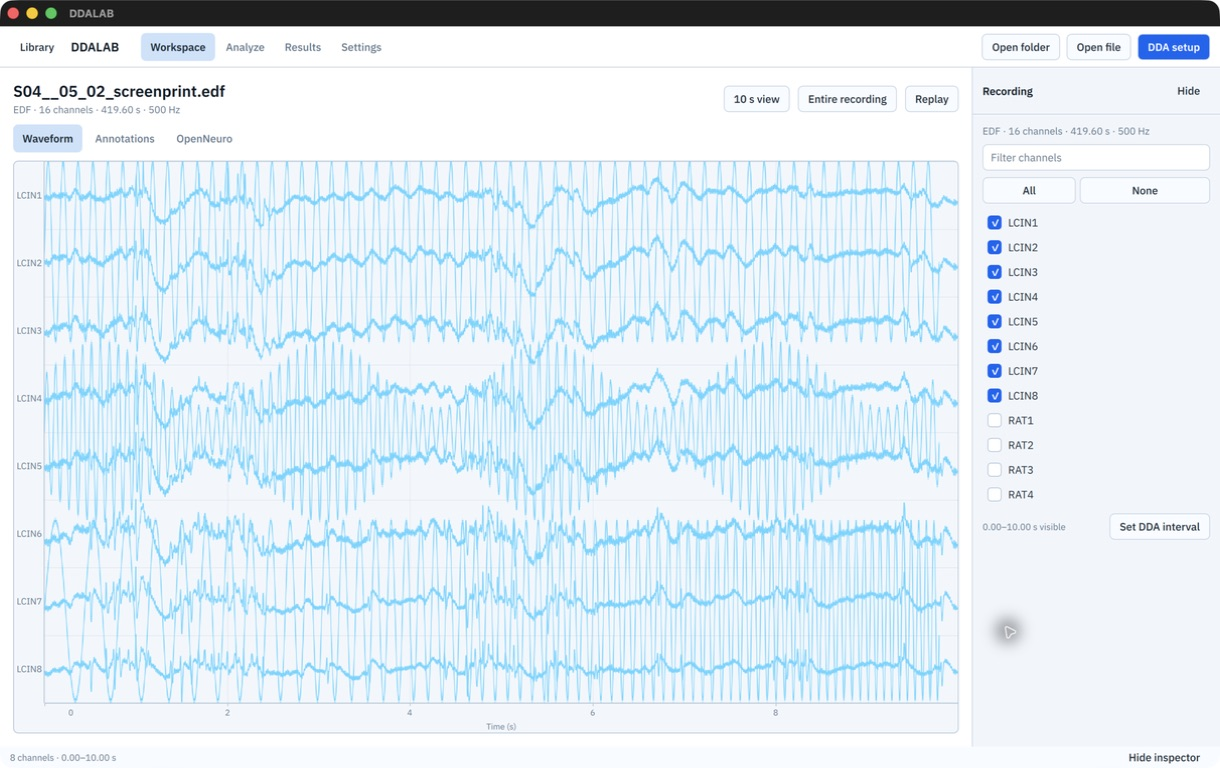
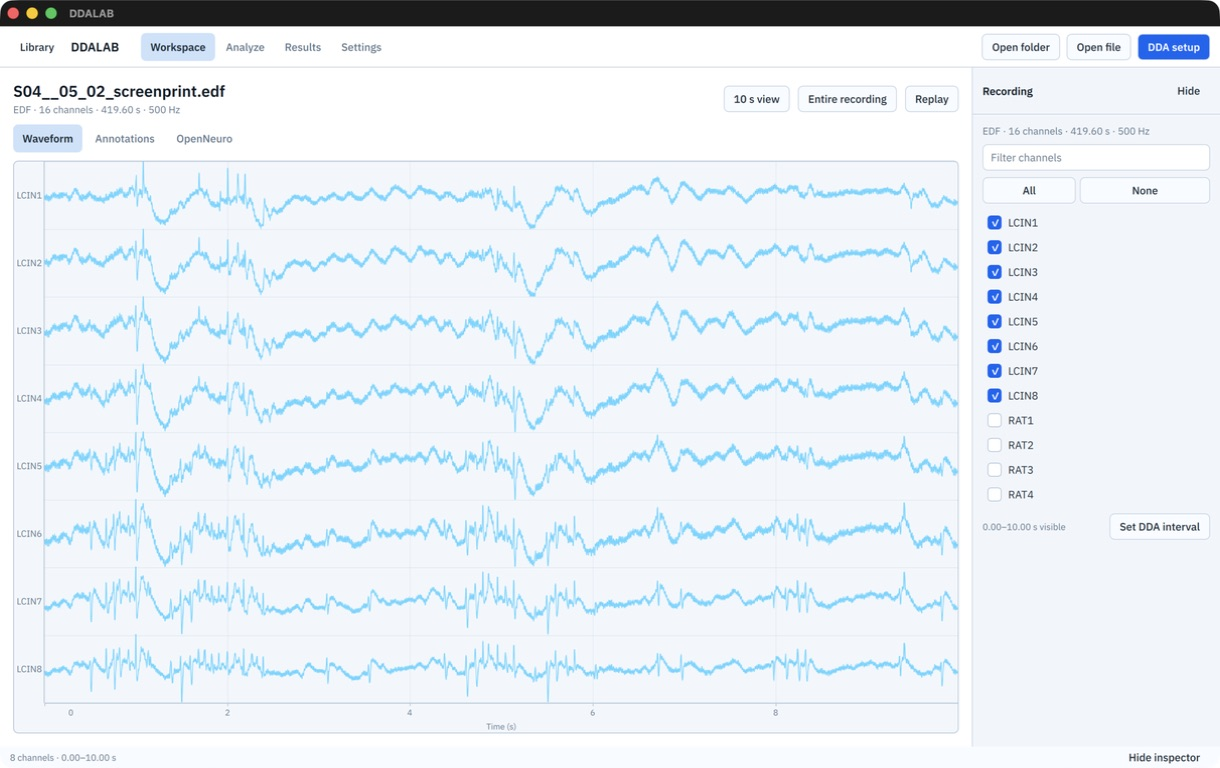
Replace DDALAB screenshot with cursor-free capture

Changed region(s): [[0.0311, 0.2188, 0.7787, 0.9062], [0.8098, 0.7812, 0.841, 0.8438], [0.0623, 0.875, 0.0934, 0.9062]]

diff --git a/docs/content-maintenance.md b/docs/content-maintenance.md
@@ -35,10 +35,12 @@ The `docs/` directory is excluded from the generated website.
 
 ## DDALAB screenshot
 
-`assets/img/ddalab-workspace.png` is an unaltered screenshot of the running
+`assets/img/ddalab-workspace.png` is a screenshot of the running
 Python/PySide6 desktop application, captured on 2026-09-04. At Simon's request,
 it displays `data/S04__05_02_screenprint.edf` from DDALAB: the first ten seconds of
-channels LCIN1–LCIN8, sampled at 500 Hz. The library sidebar is hidden. Only the
+channels LCIN1–LCIN8, sampled at 500 Hz. The library sidebar is hidden. The capture
+tool's cursor and halo were removed using the matching region of a second capture;
+the waveform and control area was verified identical between captures. Only the
 screenshot is included in this repository, not the source EDF. Refresh the screenshot
 and technology description together after significant application changes.
 
